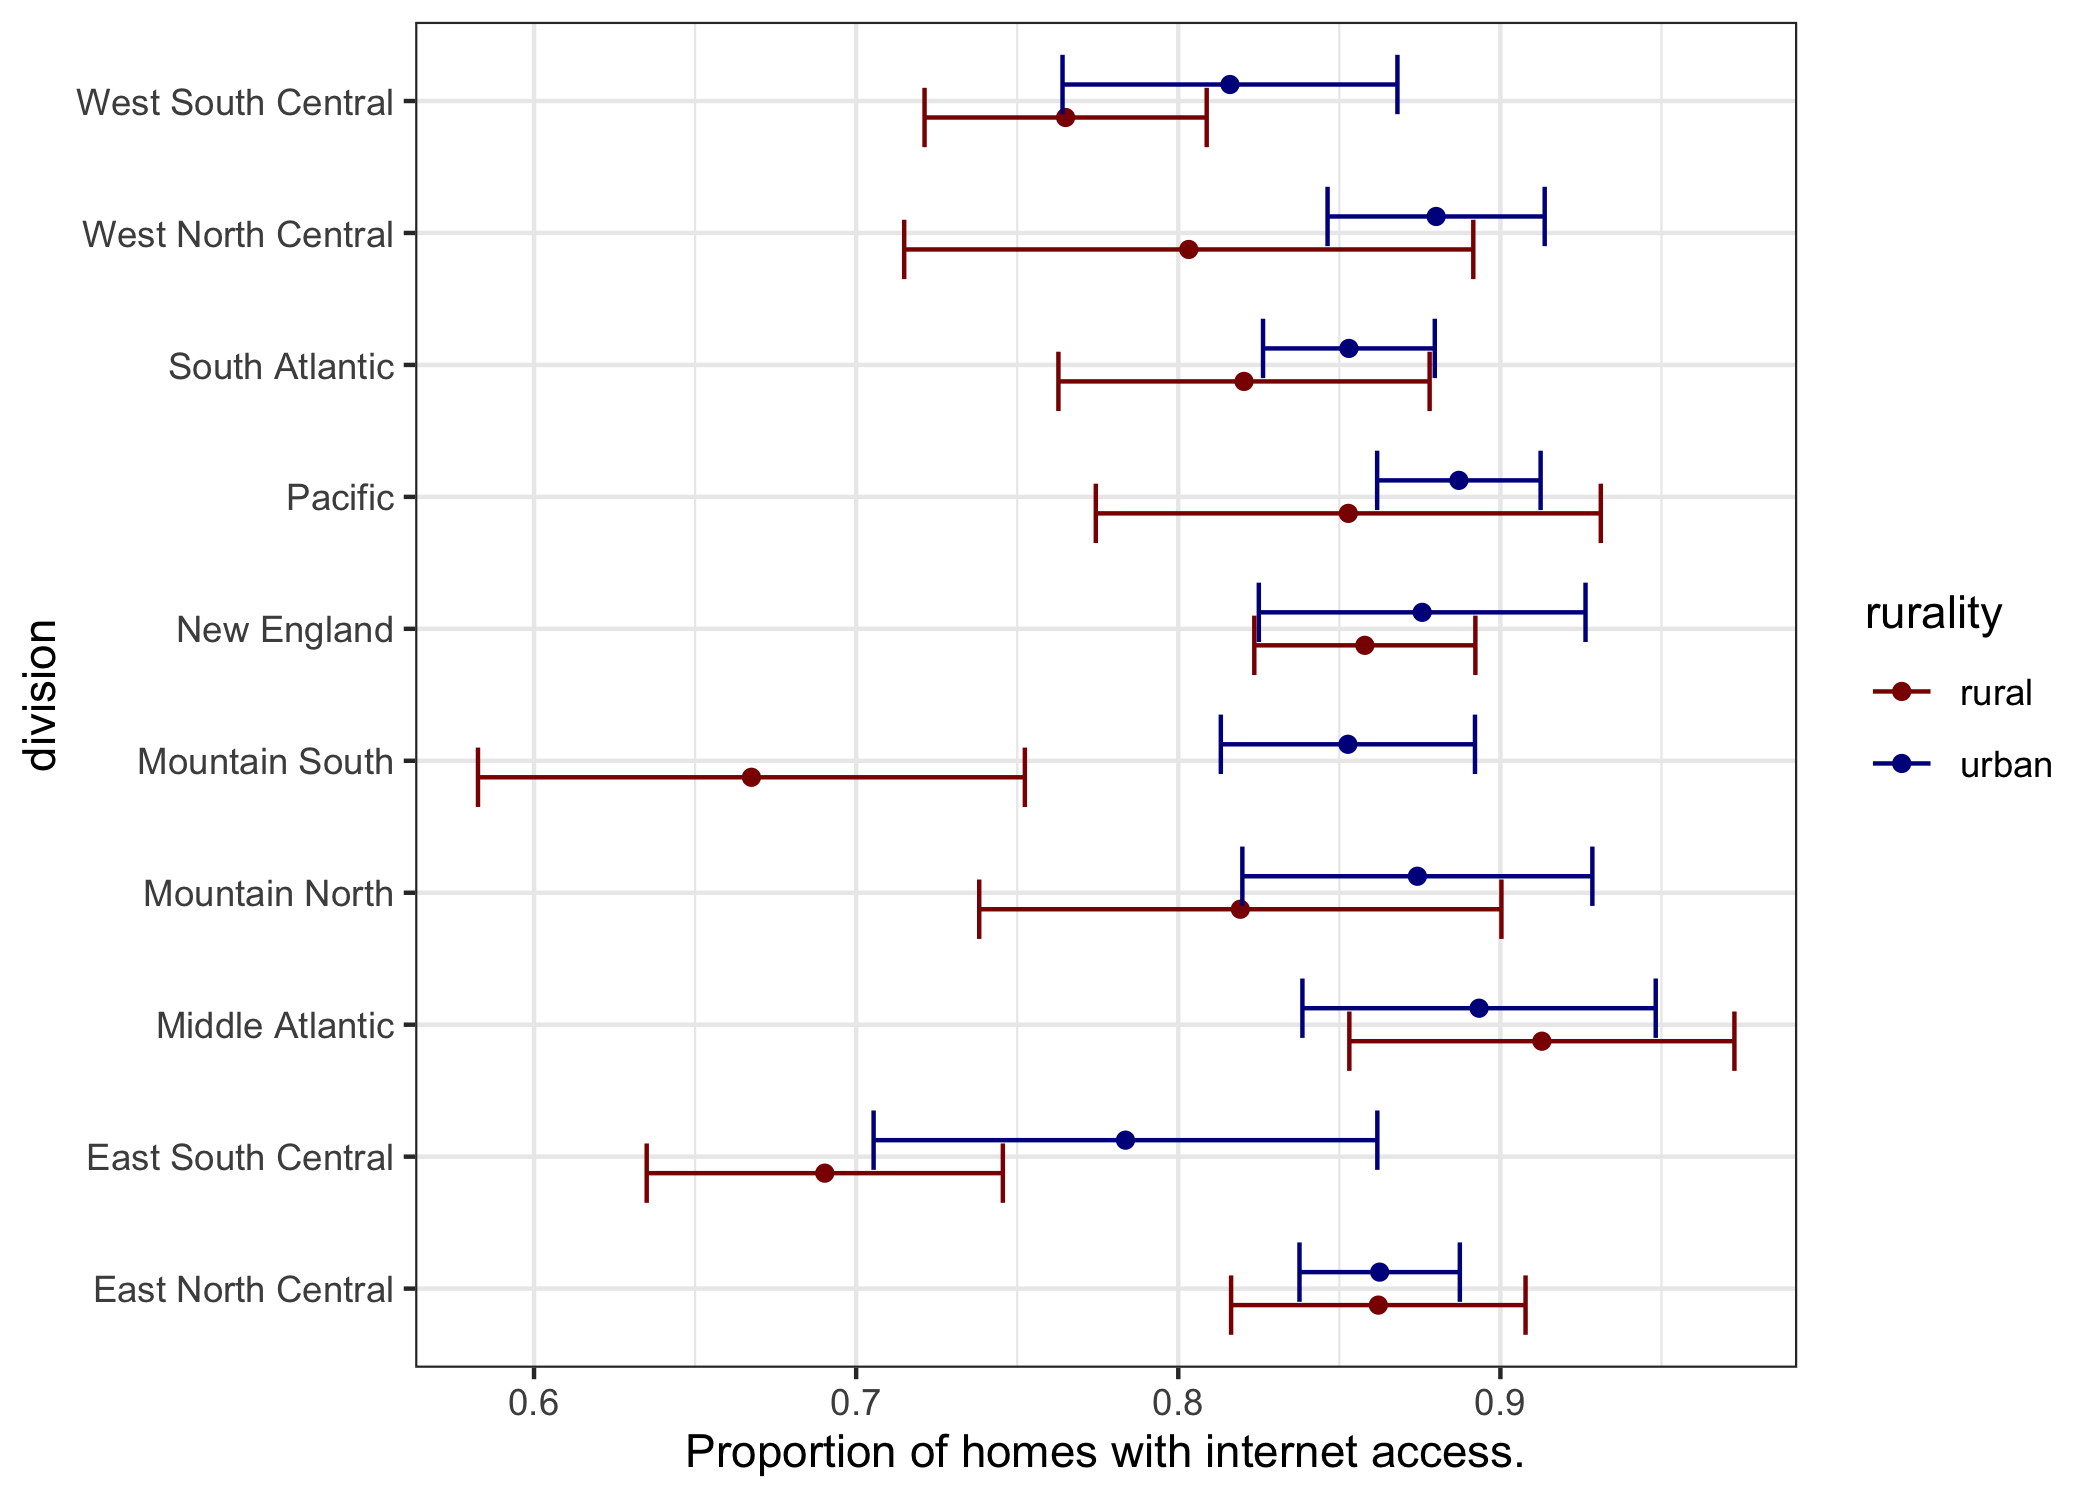
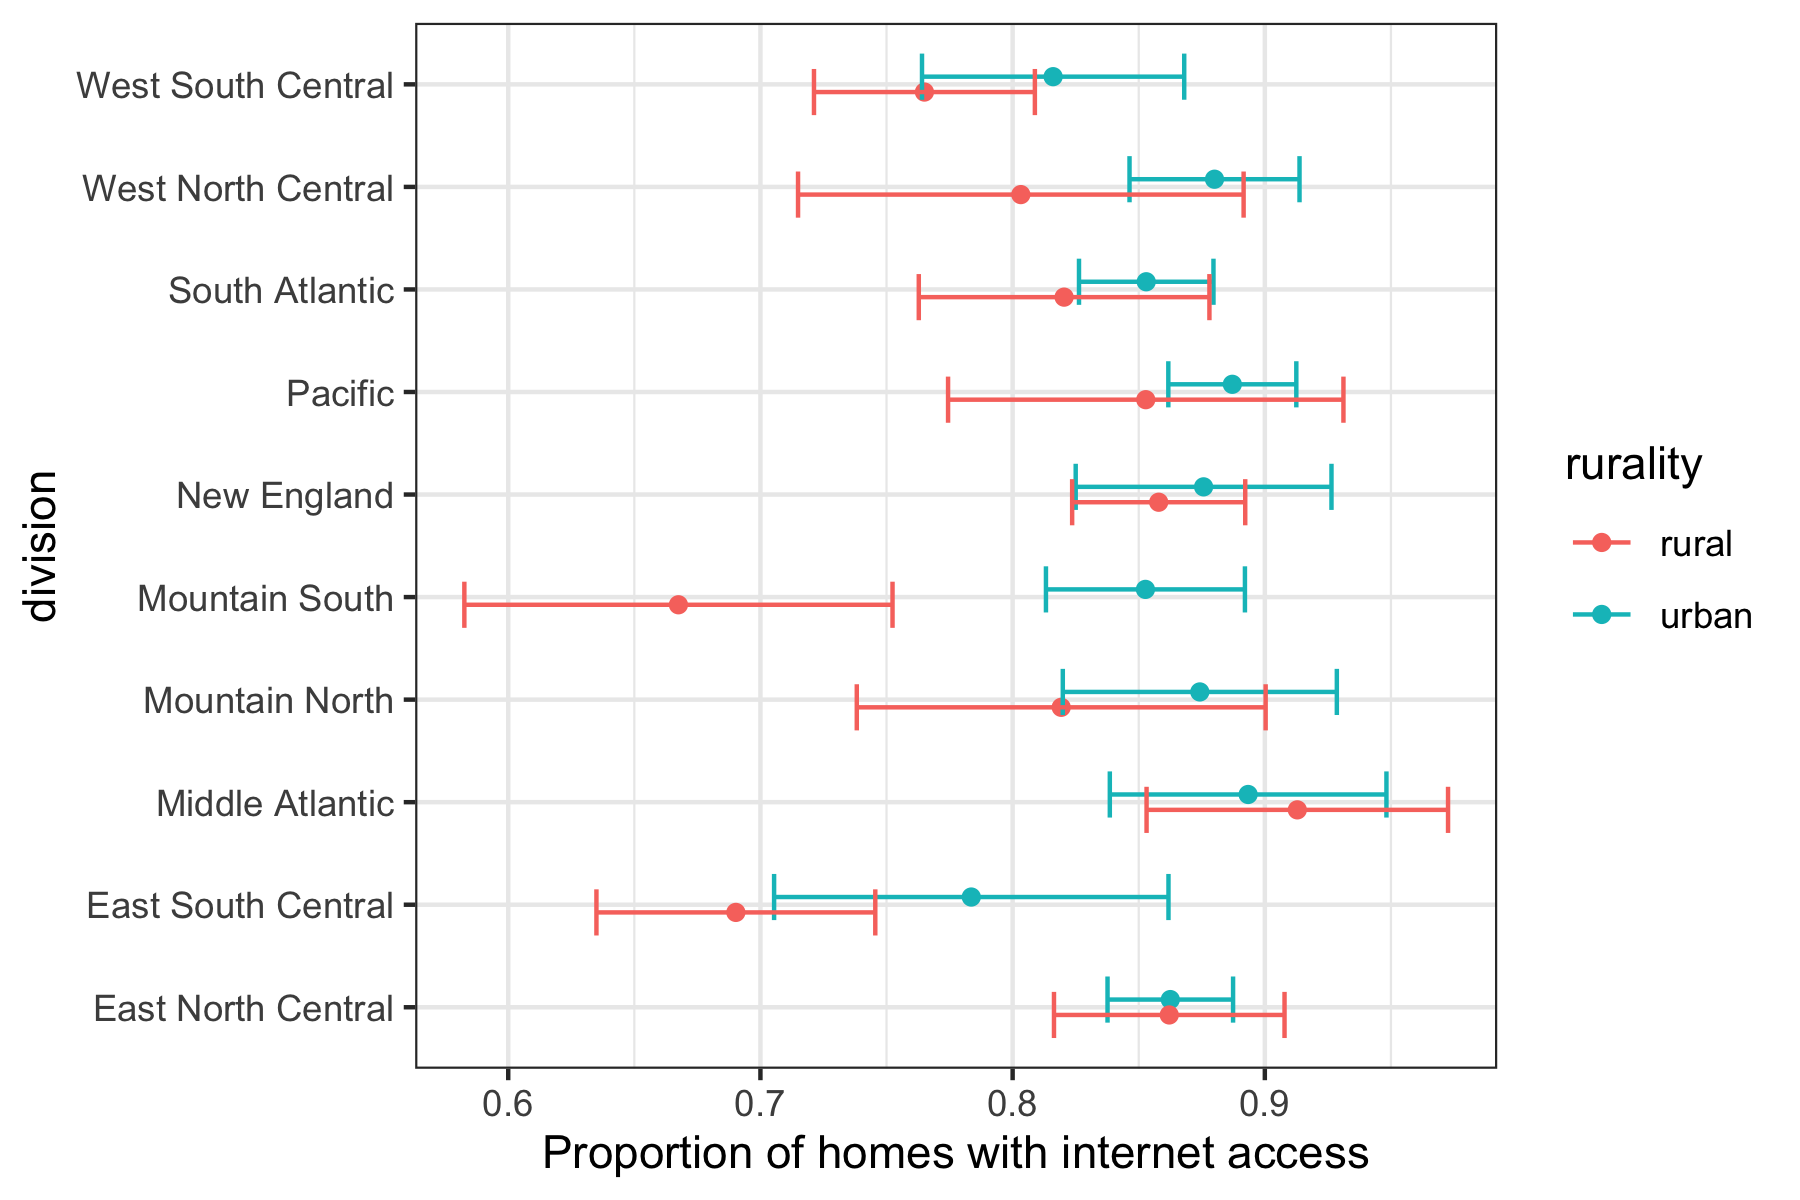
Update part 2

diff --git a/README.md b/README.md
@@ -18,3 +18,7 @@ Some basic opeartion in R
 [Repo for Yingyi yang](https://github.com/YingyiYang/Stats506_public)  
 [Repo for EunSeon Ahn](https://github.com/EunseonAhn/Stats506_public)  
 [Repo for Dongyang Zhao](https://github.com/zhaodyleo/STATS506_F20)
+
+Here is the plot for week4 q1 and q2.
+![q1](./week4/w4_p2_q1_plot.png)
+![q2](./week4/w4_p2_q2_plot.png)    	
